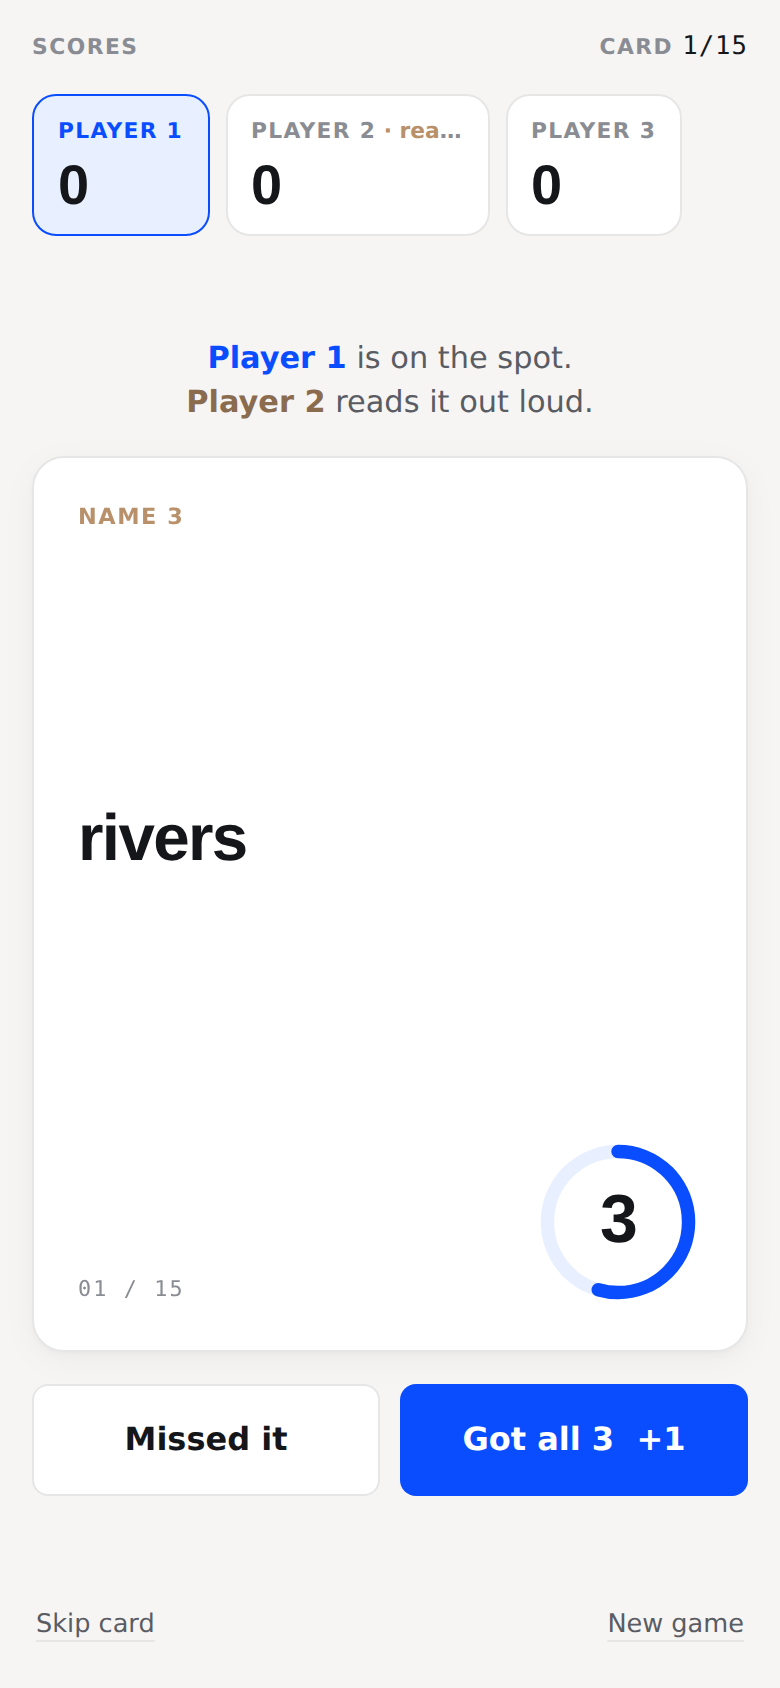
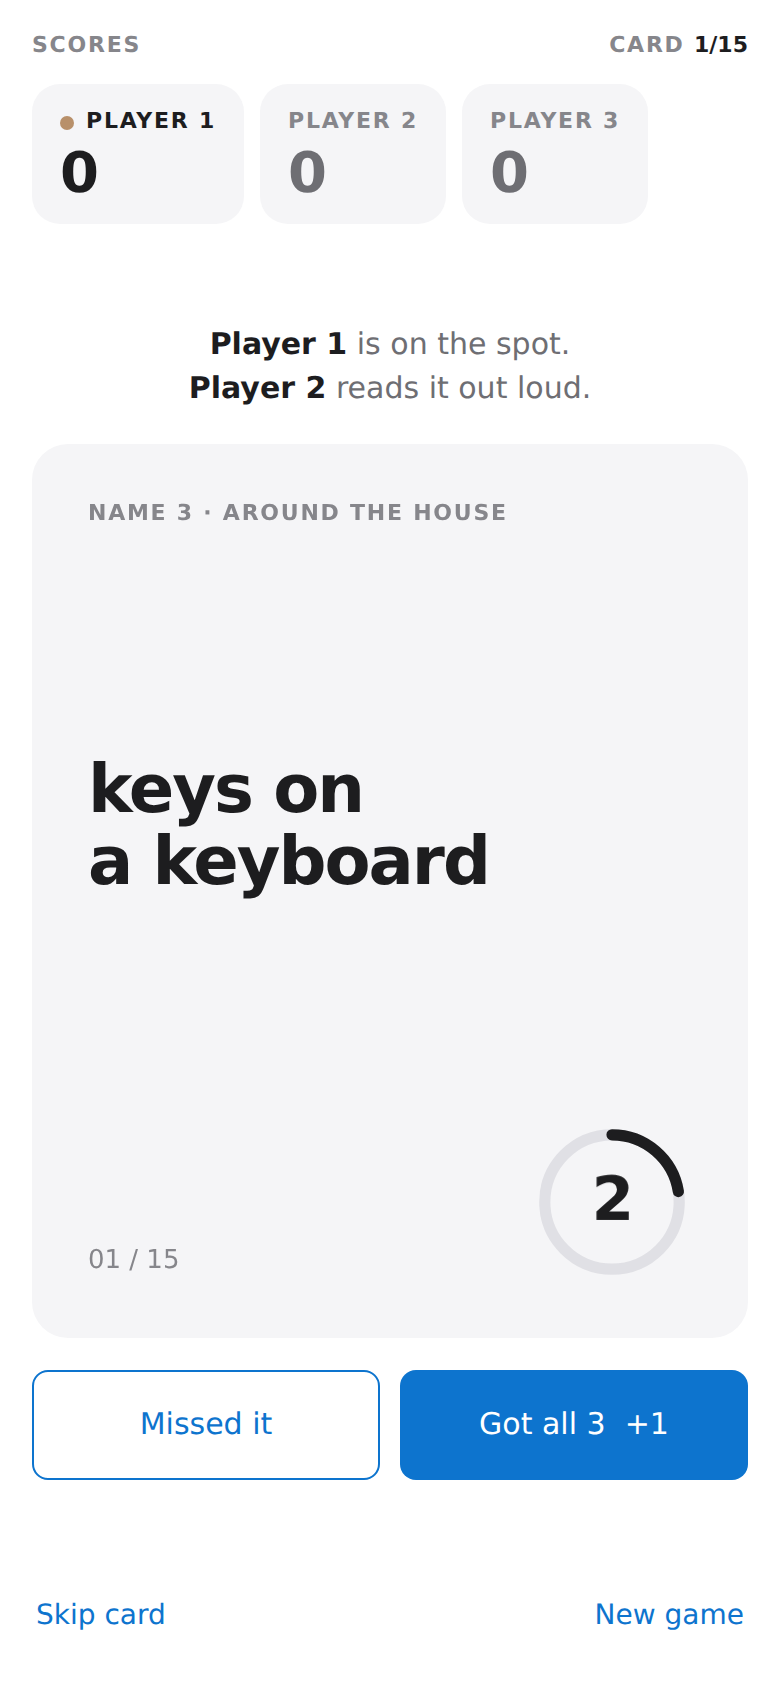
Restyle to new design system
White and parchment surfaces, Inter only, blue reserved for actions,
one amber dot per screen, no shadows, 18px cards.

Claude-Session: https://claude.ai/code/session_01DprYccwfegjgrTrzZnp9p4

diff --git a/index.html b/index.html
@@ -4,159 +4,153 @@
 <meta charset="utf-8">
 <meta name="viewport" content="width=device-width, initial-scale=1, viewport-fit=cover">
 <meta name="description" content="A pass-the-phone party game: flip a card, name three things before the 5-second buzzer.">
-<meta name="theme-color" content="#0A4DFF">
+<meta name="theme-color" content="#ffffff">
 <title>Name 3 in 5</title>
 <link rel="preconnect" href="https://fonts.googleapis.com">
 <link rel="preconnect" href="https://fonts.gstatic.com" crossorigin>
-<link rel="stylesheet" href="https://fonts.googleapis.com/css2?family=Space+Grotesk:wght@500;700&family=Inter:wght@400;500;600&family=Space+Mono&display=swap">
+<link rel="stylesheet" href="https://fonts.googleapis.com/css2?family=Inter:wght@400;500;600&display=swap">
 <style>
 *,*::before,*::after{box-sizing:border-box}
 :root{
   color-scheme: light;
-  --blue:#0A4DFF; --blue-700:#0838C4; --blue-200:#C2D3FF; --blue-100:#E8EFFF;
-  --warm:#B8906A; --warm-300:#CBA882; --warm-700:#8B6B4E; --warm-50:#FAF4EF;
-  --canvas:#f6f5f4; --surface:#ffffff; --hairline:#e6e6e6; --cream:#F6F4ED;
-  --ink:#15161A; --ink-soft:#5A5C63; --mute:#8A8C93;
-  --display:"Space Grotesk", "Helvetica Neue", Arial, sans-serif;
-  --text:"Inter", system-ui, -apple-system, "Segoe UI", sans-serif;
-  --mono:"Space Mono", ui-monospace, Menlo, monospace;
-  --r-sm:5px; --r-md:8px; --r-lg:12px; --r-xl:16px;
-  --shadow-1: rgba(0,0,0,.01) 0 .175px 1.041px, rgba(0,0,0,.02) 0 .8px 2.925px, rgba(0,0,0,.027) 0 2.025px 7.847px, rgba(0,0,0,.04) 0 4px 18px;
+  --canvas:#ffffff; --parchment:#f5f5f7; --dark:#1d1d1f;
+  --ink:#1d1d1f; --body:#6e6e73; --mute:#86868b; --on-dark:#ffffff; --on-dark-2:#ababaf;
+  --line:#e0e0e5; --blue:#0d74ce; --blue-hover:#0b63b0; --blue-tint:#eef5fc; --amber:#B8906A;
+  --font:"Inter", system-ui, -apple-system, "Segoe UI", sans-serif;
+  --r-btn:8px; --r-card:18px; --r-chip:999px;
   padding-top:env(safe-area-inset-top,0px); padding-bottom:env(safe-area-inset-bottom,0px);
 }
 [hidden]{display:none!important}
 html,body{height:100%;margin:0}
-body{background:var(--canvas);color:var(--ink);font-family:var(--text);font-size:16px;line-height:1.5;
-  -webkit-font-smoothing:antialiased;-webkit-tap-highlight-color:transparent;user-select:none;-webkit-user-select:none}
-.app{height:100%;max-width:480px;margin:0 auto;padding-inline:16px;padding-block:14px;display:flex;flex-direction:column;gap:12px}
+body{background:var(--canvas);color:var(--ink);font-family:var(--font);font-size:15px;line-height:1.65;
+  -webkit-font-smoothing:antialiased;-webkit-tap-highlight-color:transparent;user-select:none;-webkit-user-select:none;
+  font-variant-numeric:tabular-nums}
 button{font:inherit;color:inherit;border:0;background:none;cursor:pointer}
-:focus-visible{outline:2px solid var(--warm);outline-offset:3px}
+:focus-visible{outline:2px solid var(--blue);outline-offset:3px}
+.label,.topline,.strip,.eyebrow{font-size:11px;font-weight:600;letter-spacing:.08em;text-transform:uppercase;color:var(--mute);line-height:1.3}
 
-/* Top strip + scoreboard */
-.topline{display:flex;justify-content:space-between;align-items:baseline;font-size:.68rem;font-weight:600;letter-spacing:.07em;text-transform:uppercase;color:var(--mute)}
-.topline b{font-family:var(--mono);font-weight:400;font-size:.8rem;color:var(--ink);letter-spacing:.04em;font-variant-numeric:tabular-nums}
-.board{display:flex;gap:8px;overflow-x:auto;scrollbar-width:none;padding-block:2px 4px;margin-inline:-16px;padding-inline:16px;scroll-padding-inline:16px}
+/* Game screen */
+.app{height:100%;max-width:480px;margin:0 auto;padding-inline:16px;padding-block:16px;display:flex;flex-direction:column;gap:12px}
+.topline{display:flex;justify-content:space-between;align-items:baseline}
+.topline b{font-weight:600;color:var(--ink);letter-spacing:0}
+.board{display:flex;gap:8px;overflow-x:auto;scrollbar-width:none;margin-inline:-16px;padding-inline:16px;scroll-padding-inline:16px}
 .board::-webkit-scrollbar{display:none}
-.player{flex:0 0 auto;min-width:84px;max-width:132px;display:flex;flex-direction:column;gap:4px;padding:10px 12px;border-radius:var(--r-lg);
-  background:var(--surface);border:1px solid var(--hairline);transition:border-color .2s,background .2s}
-.player.reader{border-color:var(--warm-300)}
-.player.active{border-color:var(--blue);background:var(--blue-100)}
-.pname{font-size:.68rem;font-weight:600;letter-spacing:.06em;text-transform:uppercase;color:var(--mute);white-space:nowrap;overflow:hidden;text-overflow:ellipsis}
-.player.active .pname{color:var(--blue)}
-.pscore{font-family:var(--display);font-weight:700;font-size:28px;line-height:1;letter-spacing:-.03em;font-variant-numeric:tabular-nums}
+.player{flex:0 0 auto;min-width:84px;max-width:132px;display:flex;flex-direction:column;gap:2px;padding:10px 14px;border-radius:14px;background:var(--parchment)}
+.pname{display:flex;align-items:center;gap:6px;font-size:11px;font-weight:600;letter-spacing:.08em;text-transform:uppercase;color:var(--mute);white-space:nowrap;overflow:hidden;text-overflow:ellipsis}
+.player.active .pname{color:var(--ink)}
+.player.active .pname::before{content:"";flex:0 0 auto;width:7px;height:7px;border-radius:50%;background:var(--amber)}
+.pscore{font-weight:600;font-size:28px;line-height:1.05;letter-spacing:-.03em;color:var(--body)}
+.player.active .pscore{color:var(--ink)}
 
-/* Stage */
 .stage{flex:1;display:flex;flex-direction:column;align-items:center;justify-content:center;gap:16px;min-height:0}
-.turn{font-size:.95rem;color:var(--ink-soft);text-align:center;line-height:1.45}
-.turn strong{color:var(--blue);font-weight:600}
-.turn span{color:var(--warm-700);font-weight:600}
+.turn{font-size:15px;color:var(--body);text-align:center;line-height:1.5}
+.turn strong,.turn span{color:var(--ink);font-weight:600}
 
 .card{position:relative;width:100%;max-width:100%;aspect-ratio:4/5;max-height:56vh;perspective:1200px}
-.flip{position:absolute;inset:0;width:100%;transition:transform .5s cubic-bezier(.3,1.3,.5,1);transform-style:preserve-3d}
+.flip{position:absolute;inset:0;width:100%;transition:transform .5s cubic-bezier(.3,1.25,.5,1);transform-style:preserve-3d}
 .card.shown .flip{transform:rotateY(180deg)}
-.face{position:absolute;inset:0;border-radius:var(--r-xl);backface-visibility:hidden;-webkit-backface-visibility:hidden;
-  display:flex;flex-direction:column;padding:22px;text-align:left}
-.back{background:var(--blue);color:var(--cream);justify-content:space-between;overflow:hidden}
-.back .strip{display:flex;justify-content:space-between;font-size:.68rem;font-weight:500;letter-spacing:.05em;text-transform:uppercase;color:rgba(255,255,255,.45)}
-.back .mark{font-family:var(--display);font-weight:700;font-size:clamp(9rem,46vw,13rem);line-height:.8;letter-spacing:-.05em;transform:skewX(-7deg);display:inline-block;margin-left:-6px}
-.back .mark small{font-size:.32em;letter-spacing:-.03em;color:var(--blue-200);margin-left:.08em}
-.back .hint{font-family:var(--display);font-weight:700;font-size:1.5rem;letter-spacing:-.02em;line-height:1.05}
-.back .hint span{display:block;font-family:var(--text);font-weight:500;font-size:.8rem;letter-spacing:.06em;text-transform:uppercase;color:var(--blue-200);margin-top:8px;animation:pulse 1.6s ease-in-out infinite}
-@keyframes pulse{50%{opacity:.4}}
-.front{background:var(--surface);color:var(--ink);transform:rotateY(180deg);justify-content:space-between;box-shadow:var(--shadow-1);border:1px solid var(--hairline)}
-.eyebrow{font-size:.7rem;font-weight:600;letter-spacing:.07em;text-transform:uppercase;color:var(--warm)}
-.q{font-family:var(--display);font-weight:700;font-size:clamp(28px,8.4vw,40px);line-height:1.04;letter-spacing:-.025em;text-wrap:balance}
-.q em{font-style:normal;color:var(--blue)}
+.face{position:absolute;inset:0;border-radius:var(--r-card);backface-visibility:hidden;-webkit-backface-visibility:hidden;display:flex;flex-direction:column;justify-content:space-between;padding:28px;text-align:left}
+.back{background:var(--dark);color:var(--on-dark)}
+.back .strip{display:flex;justify-content:space-between;color:var(--on-dark-2)}
+.back .mark{font-weight:600;font-size:clamp(8.5rem,42vw,12rem);line-height:.85;letter-spacing:-.06em}
+.back .mark small{font-size:.28em;letter-spacing:-.03em;color:var(--on-dark-2);margin-left:.1em}
+.back .hint{font-weight:600;font-size:22px;letter-spacing:-.02em;line-height:1.15}
+.back .hint span{display:block;font-size:11px;font-weight:600;letter-spacing:.08em;text-transform:uppercase;color:var(--on-dark-2);margin-top:10px;animation:pulse 1.6s ease-in-out infinite}
+@keyframes pulse{50%{opacity:.45}}
+.front{background:var(--parchment);color:var(--ink);transform:rotateY(180deg)}
+.eyebrow .cat{color:var(--mute)}
+.q{font-weight:600;font-size:clamp(30px,8.6vw,42px);line-height:1.08;letter-spacing:-.03em;text-wrap:balance}
+.q em{font-style:normal;text-decoration:underline;text-decoration-thickness:2px;text-decoration-color:var(--mute);text-underline-offset:5px}
 .cardfoot{display:flex;justify-content:space-between;align-items:flex-end}
-.cardfoot .meta{font-family:var(--mono);font-size:.68rem;letter-spacing:.1em;text-transform:uppercase;color:var(--mute)}
+.cardfoot .meta{font-size:13px;color:var(--mute)}
 
-.timer{position:relative;width:84px;height:84px}
+.timer{position:relative;width:80px;height:80px}
 .timer svg{width:100%;height:100%;transform:rotate(-90deg)}
-.timer .track{fill:none;stroke:var(--blue-100);stroke-width:8}
-.timer .ring{fill:none;stroke:var(--blue);stroke-width:8;stroke-linecap:round;transition:stroke .2s}
-.timer.warn .ring{stroke:var(--warm)}
-.timer .num{position:absolute;inset:0;display:grid;place-items:center;font-family:var(--display);font-weight:700;font-size:34px;letter-spacing:-.03em;font-variant-numeric:tabular-nums}
-.timer.warn .num{color:var(--warm-700)}
-.timer.done .num{font-family:var(--mono);font-weight:400;font-size:.8rem;letter-spacing:.12em;color:var(--warm-700)}
+.timer .track{fill:none;stroke:var(--line);stroke-width:7}
+.timer .ring{fill:none;stroke:var(--ink);stroke-width:7;stroke-linecap:round}
+.timer .num{position:absolute;inset:0;display:grid;place-items:center;font-weight:600;font-size:30px;letter-spacing:-.03em}
+.timer.warn .num{animation:tick .5s ease-in-out infinite alternate}
+@keyframes tick{to{transform:scale(1.12)}}
+.timer.done .num{font-size:11px;letter-spacing:.08em;color:var(--body);animation:none}
 .card.buzz .front{animation:shake .4s}
 @keyframes shake{20%,60%{transform:rotateY(180deg) translateX(-7px)}40%,80%{transform:rotateY(180deg) translateX(7px)}}
 
 .verdict{display:grid;grid-template-columns:1fr 1fr;gap:10px;width:100%}
-.btn{font-family:var(--text);font-weight:600;font-size:1rem;border-radius:var(--r-md);padding:15px 12px;border:1px solid transparent;transition:background .15s,border-color .15s}
+.btn{font-weight:500;font-size:15px;border-radius:var(--r-btn);padding:14px 20px;border:1px solid transparent;transition:background .15s,color .15s}
 .btn:active{transform:scale(.98)}
 .btn-primary{background:var(--blue);color:#fff}
-.btn-primary:hover{background:var(--blue-700)}
-.btn-ghost{background:var(--surface);color:var(--ink);border-color:var(--hairline)}
-.btn-ghost:hover{border-color:var(--ink)}
-.footer{display:flex;justify-content:space-between;align-items:center;font-size:.8rem;color:var(--mute)}
-.footer button{padding:8px 2px;color:var(--ink-soft);text-decoration:underline;text-decoration-color:var(--hairline);text-underline-offset:4px}
+.btn-primary:hover{background:var(--blue-hover)}
+.btn-ghost{background:transparent;color:var(--blue);border-color:var(--blue)}
+.btn-ghost:hover{background:var(--blue-tint)}
+.footer{display:flex;justify-content:space-between;align-items:center;font-size:14px}
+.footer button{padding:8px 2px;color:var(--blue);font-weight:500}
 
-/* Setup + end */
-.sheet{position:fixed;inset:0;background:var(--canvas);z-index:5;overflow-y:auto}
-.hero{background:var(--blue);color:var(--cream);padding-inline:16px;padding-block:calc(env(safe-area-inset-top,0px) + 20px) 28px}
-.hero-in,.sheet-body{max-width:420px;margin:0 auto}
-.hero .strip{display:flex;justify-content:space-between;font-size:.68rem;font-weight:500;letter-spacing:.05em;text-transform:uppercase;color:rgba(255,255,255,.4);margin-bottom:18px}
-.logo{font-family:var(--display);font-weight:700;font-size:clamp(4.4rem,22vw,6.2rem);line-height:.84;letter-spacing:-.045em;transform:skewX(-7deg);display:inline-block;padding-left:.06em}
-.logo span{color:var(--blue-200)}
-.sub{font-size:.95rem;color:rgba(255,255,255,.72);line-height:1.6;margin:16px 0 0;max-width:40ch}
-.sheet-body{padding-inline:16px;padding-block:24px calc(env(safe-area-inset-bottom,0px) + 28px);display:flex;flex-direction:column;gap:22px}
-.label{font-size:.68rem;font-weight:600;letter-spacing:.07em;text-transform:uppercase;color:var(--mute)}
-.group{display:flex;flex-direction:column;gap:8px}
+/* Setup and results */
+.sheet{position:fixed;inset:0;background:var(--parchment);z-index:5;overflow-y:auto}
+.hero{background:var(--canvas);padding-inline:16px;padding-block:calc(env(safe-area-inset-top,0px) + 28px) 36px}
+.hero-in,.sheet-body{max-width:440px;margin:0 auto}
+.hero .strip{display:flex;justify-content:space-between;align-items:center;margin-bottom:20px}
+.hero .strip span:first-child{display:inline-flex;align-items:center;gap:8px}
+#setup .hero .strip span:first-child::before{content:"";width:7px;height:7px;border-radius:50%;background:var(--amber)}
+.logo{font-weight:600;font-size:clamp(40px,13vw,56px);line-height:1.05;letter-spacing:-.03em}
+.logo span{color:var(--mute)}
+.sub{font-size:17px;color:var(--body);line-height:1.55;margin:14px 0 0;max-width:38ch}
+.sheet-body{padding-inline:16px;padding-block:28px calc(env(safe-area-inset-bottom,0px) + 32px);display:flex;flex-direction:column;gap:28px}
+.group{display:flex;flex-direction:column;gap:10px}
 .prow{display:flex;gap:8px;align-items:center}
-.prow input{flex:1;min-width:0;font:inherit;font-size:1rem;color:var(--ink);background:var(--surface);border:1px solid var(--hairline);
-  border-radius:var(--r-md);padding:12px 14px;user-select:text;-webkit-user-select:text}
-.prow input:focus{border-color:var(--blue);outline:none;box-shadow:0 0 0 3px var(--blue-100)}
+.prow input{flex:1;min-width:0;font:inherit;font-size:16px;color:var(--ink);background:var(--canvas);border:1px solid var(--line);border-radius:12px;padding:12px 14px;user-select:text;-webkit-user-select:text}
+.prow input:focus{border-color:var(--blue);outline:none}
 .prow input::placeholder{color:var(--mute)}
-.rm{width:46px;height:46px;border-radius:var(--r-md);background:var(--surface);border:1px solid var(--hairline);font-size:20px;line-height:1;color:var(--mute);flex:0 0 auto}
-.rm:disabled{opacity:.35;cursor:default}
-.add{padding:12px;border-radius:var(--r-md);border:1px dashed var(--blue-200);background:var(--blue-100);color:var(--blue);font-weight:600}
-.add:disabled{opacity:.5;cursor:default}
+.rm{width:46px;height:46px;border-radius:12px;background:var(--canvas);border:1px solid var(--line);font-size:20px;line-height:1;color:var(--mute);flex:0 0 auto}
+.rm:disabled{opacity:.4;cursor:default}
+.add{padding:12px 20px;border-radius:var(--r-btn);border:1px solid var(--blue);color:var(--blue);font-weight:500;background:transparent}
+.add:disabled{border-color:var(--line);color:var(--mute);cursor:default}
 .seg{display:grid;grid-template-columns:repeat(4,1fr);gap:8px}
-.seg button{padding:11px 0;border-radius:var(--r-md);background:var(--surface);border:1px solid var(--hairline);font-family:var(--display);font-weight:700;font-size:1.05rem}
-.seg button[aria-pressed="true"]{border-color:var(--blue);background:var(--blue-100);color:var(--blue)}
-.note{font-family:var(--mono);font-size:.7rem;letter-spacing:.06em;color:var(--mute)}
-.rules{margin:0;padding:16px 16px 16px 34px;background:var(--surface);border:1px solid var(--hairline);border-radius:var(--r-lg);color:var(--ink-soft);line-height:1.6;font-size:.9rem}
-.rules li::marker{font-family:var(--mono);color:var(--warm)}
-.cta{background:var(--blue);color:#fff;font-weight:600;font-size:1.05rem;padding:16px;border-radius:var(--r-md)}
-.cta:hover{background:var(--blue-700)}
-.winner{font-family:var(--display);font-weight:700;font-size:clamp(2.6rem,12vw,3.4rem);line-height:.95;letter-spacing:-.035em;text-wrap:balance;margin-top:6px}
-.winner span{color:var(--blue-200)}
-.ranks{display:flex;flex-direction:column;margin:0;padding:0;list-style:none;background:var(--surface);border:1px solid var(--hairline);border-radius:var(--r-lg);overflow:hidden}
-.ranks li{display:grid;grid-template-columns:28px 1fr auto;align-items:center;gap:10px;padding:12px 16px;border-top:1px solid var(--hairline)}
-.ranks li:first-child{border-top:0}
-.ranks .pos{font-family:var(--mono);font-size:.8rem;color:var(--mute)}
-.ranks li.top .pos{color:var(--warm)}
-.ranks .who{font-weight:600;overflow:hidden;text-overflow:ellipsis;white-space:nowrap}
-.ranks .pts{font-family:var(--display);font-weight:700;font-size:1.4rem;letter-spacing:-.02em;font-variant-numeric:tabular-nums}
-.ranks li.top .pts{color:var(--blue)}
-.link{text-align:center;color:var(--ink-soft);text-decoration:underline;text-decoration-color:var(--hairline);text-underline-offset:4px;padding:6px}
-/* Categories + 18+ */
+.seg button,.chip{background:var(--canvas);border:1px solid var(--line);color:var(--body);font-weight:500}
+.seg button{padding:11px 0;border-radius:12px;font-size:16px}
+.seg button[aria-pressed="true"],.chip[aria-pressed="true"]{border-color:var(--blue);color:var(--blue);background:var(--blue-tint)}
+.note{font-size:13px;color:var(--mute)}
+.rules{margin:0;padding:22px 28px 22px 46px;background:var(--canvas);border:1px solid var(--line);border-radius:var(--r-card);color:var(--body);line-height:1.65;font-size:15px}
+.rules li::marker{color:var(--mute);font-weight:600}
+.cta{background:var(--blue);color:#fff;font-weight:500;font-size:16px;padding:15px 20px;border-radius:var(--r-btn)}
+.cta:hover{background:var(--blue-hover)}
+.cta:disabled{background:var(--line);color:var(--mute);cursor:default}
+
 .label-row{display:flex;justify-content:space-between;align-items:baseline;gap:12px}
-.label-row button{font-size:.78rem;font-weight:600;color:var(--blue);padding:4px 0}
+.label-row button{font-size:14px;font-weight:500;color:var(--blue);padding:4px 0}
 .chips{display:flex;flex-wrap:wrap;gap:8px}
-.chip{display:inline-flex;align-items:baseline;gap:6px;padding:9px 12px;border-radius:999px;background:var(--surface);border:1px solid var(--hairline);font-size:.88rem;font-weight:600;color:var(--ink-soft)}
-.chip small{font-family:var(--mono);font-size:.68rem;font-weight:400;color:var(--mute)}
-.chip[aria-pressed="true"]{background:var(--blue-100);border-color:var(--blue-200);color:var(--blue)}
+.chip{display:inline-flex;align-items:baseline;gap:6px;padding:8px 14px;border-radius:var(--r-chip);font-size:14px}
+.chip small{font-size:12px;color:var(--mute);font-weight:400}
 .chip[aria-pressed="true"] small{color:var(--blue)}
-.chip.adult[aria-pressed="true"]{background:var(--warm-50);border-color:var(--warm-300);color:var(--warm-700)}
-.chip.adult[aria-pressed="true"] small{color:var(--warm-700)}
-.adult-box{display:flex;flex-direction:column;gap:10px;padding:14px 16px;background:var(--surface);border:1px solid var(--hairline);border-radius:var(--r-lg)}
-.adult-row{display:flex;justify-content:space-between;align-items:center;gap:12px}
-.adult-row strong{font-family:var(--display);font-weight:700;font-size:1.05rem;letter-spacing:-.01em}
-.adult-row p{margin:2px 0 0;font-size:.82rem;color:var(--ink-soft);line-height:1.4}
-.tag18{font-family:var(--text);font-size:.62rem;font-weight:600;letter-spacing:.04em;padding:3px 8px;border-radius:999px;border:1px solid #E0CBBA;color:var(--warm-700);background:#FAF2EB;vertical-align:2px;margin-left:6px}
-.switch{flex:0 0 auto;width:52px;height:30px;border-radius:999px;background:var(--hairline);position:relative;transition:background .2s}
-.switch::after{content:"";position:absolute;top:3px;left:3px;width:24px;height:24px;border-radius:50%;background:#fff;box-shadow:var(--shadow-1);transition:transform .2s}
-.switch[aria-checked="true"]{background:var(--warm)}
-.switch[aria-checked="true"]::after{transform:translateX(22px)}
-.confirm{display:flex;flex-wrap:wrap;align-items:center;gap:8px;font-size:.88rem;color:var(--ink)}
-.confirm .btn{padding:9px 14px;font-size:.88rem}
-.btn-warm{background:var(--warm);color:#fff}
 .fresh{display:flex;justify-content:space-between;align-items:center;gap:10px;flex-wrap:wrap}
-.fresh button{font-size:.78rem;font-weight:600;color:var(--ink-soft);text-decoration:underline;text-decoration-color:var(--hairline);text-underline-offset:4px;padding:4px 0}
-.eyebrow .cat{color:var(--mute)}
-.front.adult .eyebrow{color:var(--warm-700)}
-@media (prefers-reduced-motion:reduce){.flip,.player,.switch,.switch::after{transition:none}.back .hint span,.card.buzz .front{animation:none}}
+.fresh button{font-size:14px;font-weight:500;color:var(--blue);padding:4px 0}
+.adult-box{display:flex;flex-direction:column;gap:14px;padding:22px 24px;background:var(--canvas);border:1px solid var(--line);border-radius:var(--r-card)}
+.adult-row{display:flex;justify-content:space-between;align-items:center;gap:16px}
+.adult-row strong{font-weight:600;font-size:17px;letter-spacing:-.01em}
+.adult-row p{margin:2px 0 0;font-size:14px;color:var(--body);line-height:1.45}
+.tag18{font-size:11px;font-weight:600;letter-spacing:.04em;padding:2px 8px;border-radius:999px;border:1px solid var(--line);color:var(--mute);vertical-align:2px;margin-left:8px}
+.switch{flex:0 0 auto;width:51px;height:31px;border-radius:999px;background:var(--line);position:relative;transition:background .2s}
+.switch::after{content:"";position:absolute;top:2px;left:2px;width:27px;height:27px;border-radius:50%;background:#fff;transition:transform .2s}
+.switch[aria-checked="true"]{background:var(--blue)}
+.switch[aria-checked="true"]::after{transform:translateX(20px)}
+.confirm{display:flex;flex-wrap:wrap;align-items:center;gap:8px;font-size:14px;color:var(--ink)}
+.confirm .btn{padding:9px 16px;font-size:14px}
+.btn-warm{background:var(--blue);color:#fff}
+
+#end .hero{background:var(--dark);color:var(--on-dark)}
+#end .hero .strip{color:var(--on-dark-2)}
+.winner{font-weight:600;font-size:clamp(40px,12vw,56px);line-height:1.05;letter-spacing:-.03em;text-wrap:balance}
+.winner span{color:var(--on-dark)}
+.winner{color:var(--on-dark-2)}
+.ranks{display:flex;flex-direction:column;margin:0;padding:0;list-style:none;background:var(--canvas);border:1px solid var(--line);border-radius:var(--r-card);overflow:hidden}
+.ranks li{display:grid;grid-template-columns:28px 1fr auto;align-items:center;gap:10px;padding:14px 22px;border-top:1px solid var(--line)}
+.ranks li:first-child{border-top:0}
+.ranks .pos{font-size:13px;font-weight:600;color:var(--mute)}
+.ranks .who{font-weight:500;color:var(--ink);overflow:hidden;text-overflow:ellipsis;white-space:nowrap}
+.ranks .pts{font-weight:600;font-size:22px;letter-spacing:-.02em;color:var(--body)}
+.ranks li.top .pts,.ranks li.top .pos{color:var(--ink)}
+.link{text-align:center;color:var(--blue);font-weight:500;padding:6px}
+@media (prefers-reduced-motion:reduce){.flip,.switch,.switch::after{transition:none}.back .hint span,.card.buzz .front,.timer.warn .num{animation:none}}
 </style>
 </head>
 <body>

diff --git a/README.md b/README.md
@@ -2,7 +2,7 @@
 
 A pass-the-phone party game. Flip a card, and the player on the spot has five seconds to name three things.
 
-<img src="docs/screenshot.png" alt="A revealed card reading 'Name 3: rivers' with the countdown ring running" width="300">
+<img src="docs/screenshot.png" alt="A revealed card reading 'Name 3: keys on a keyboard' with the countdown ring running" width="300">
 
 **Play it:** `https://datakyle.github.io/5-in-3/`
 
